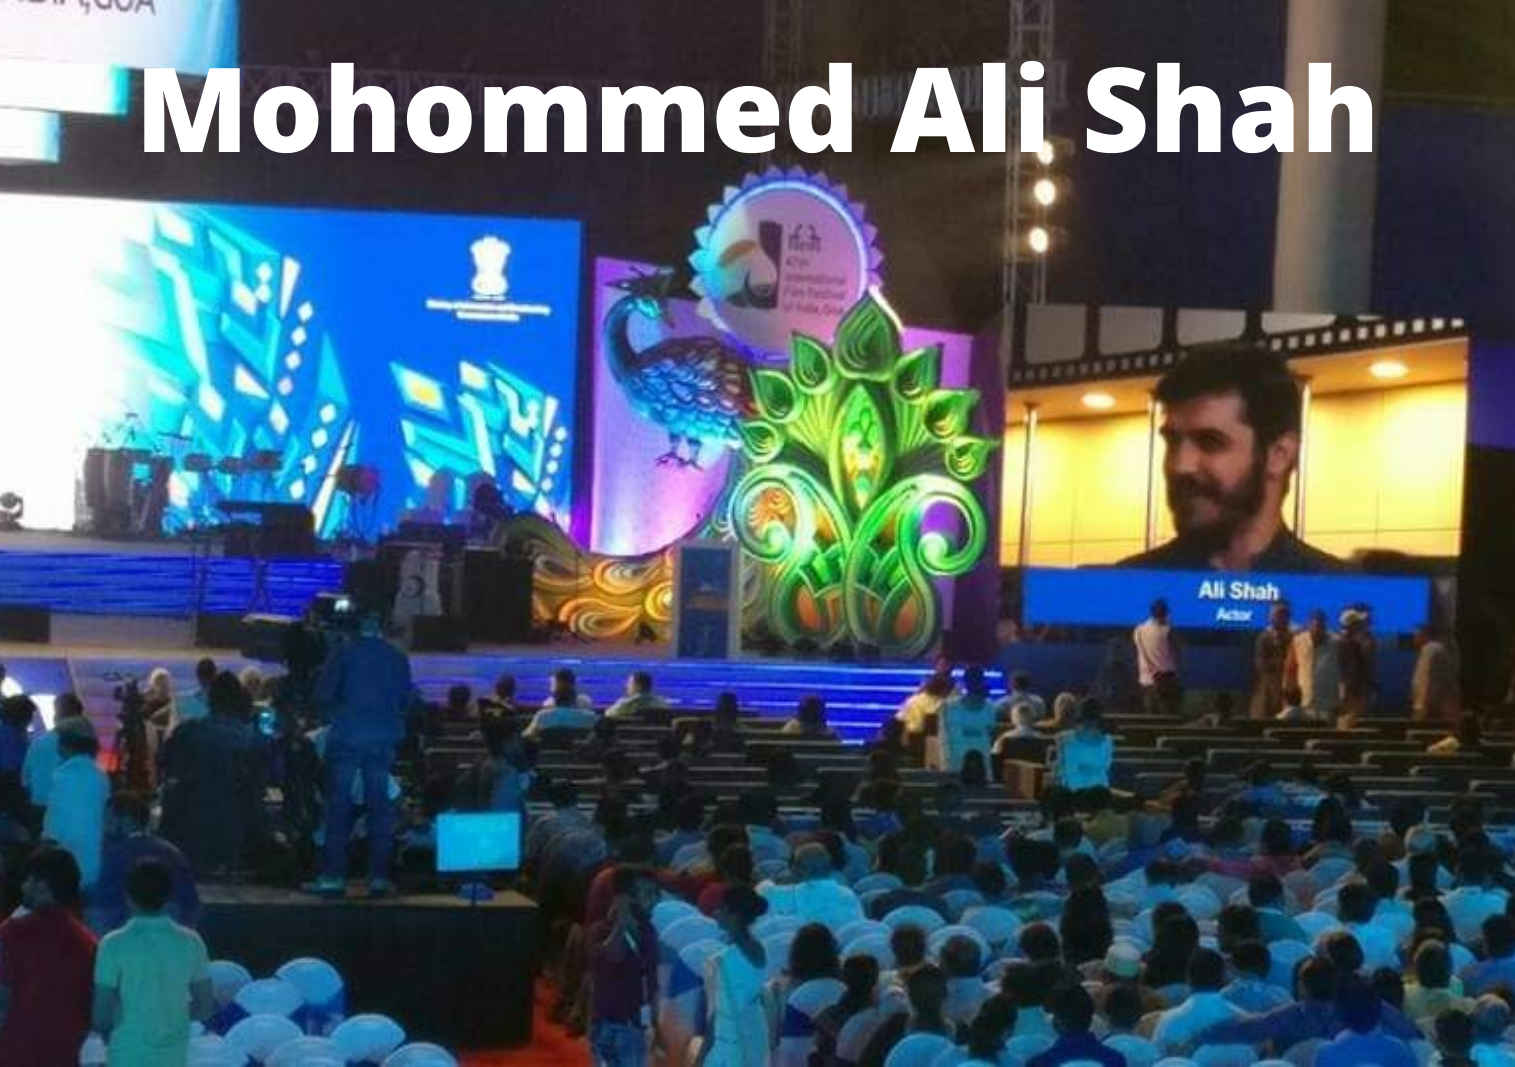
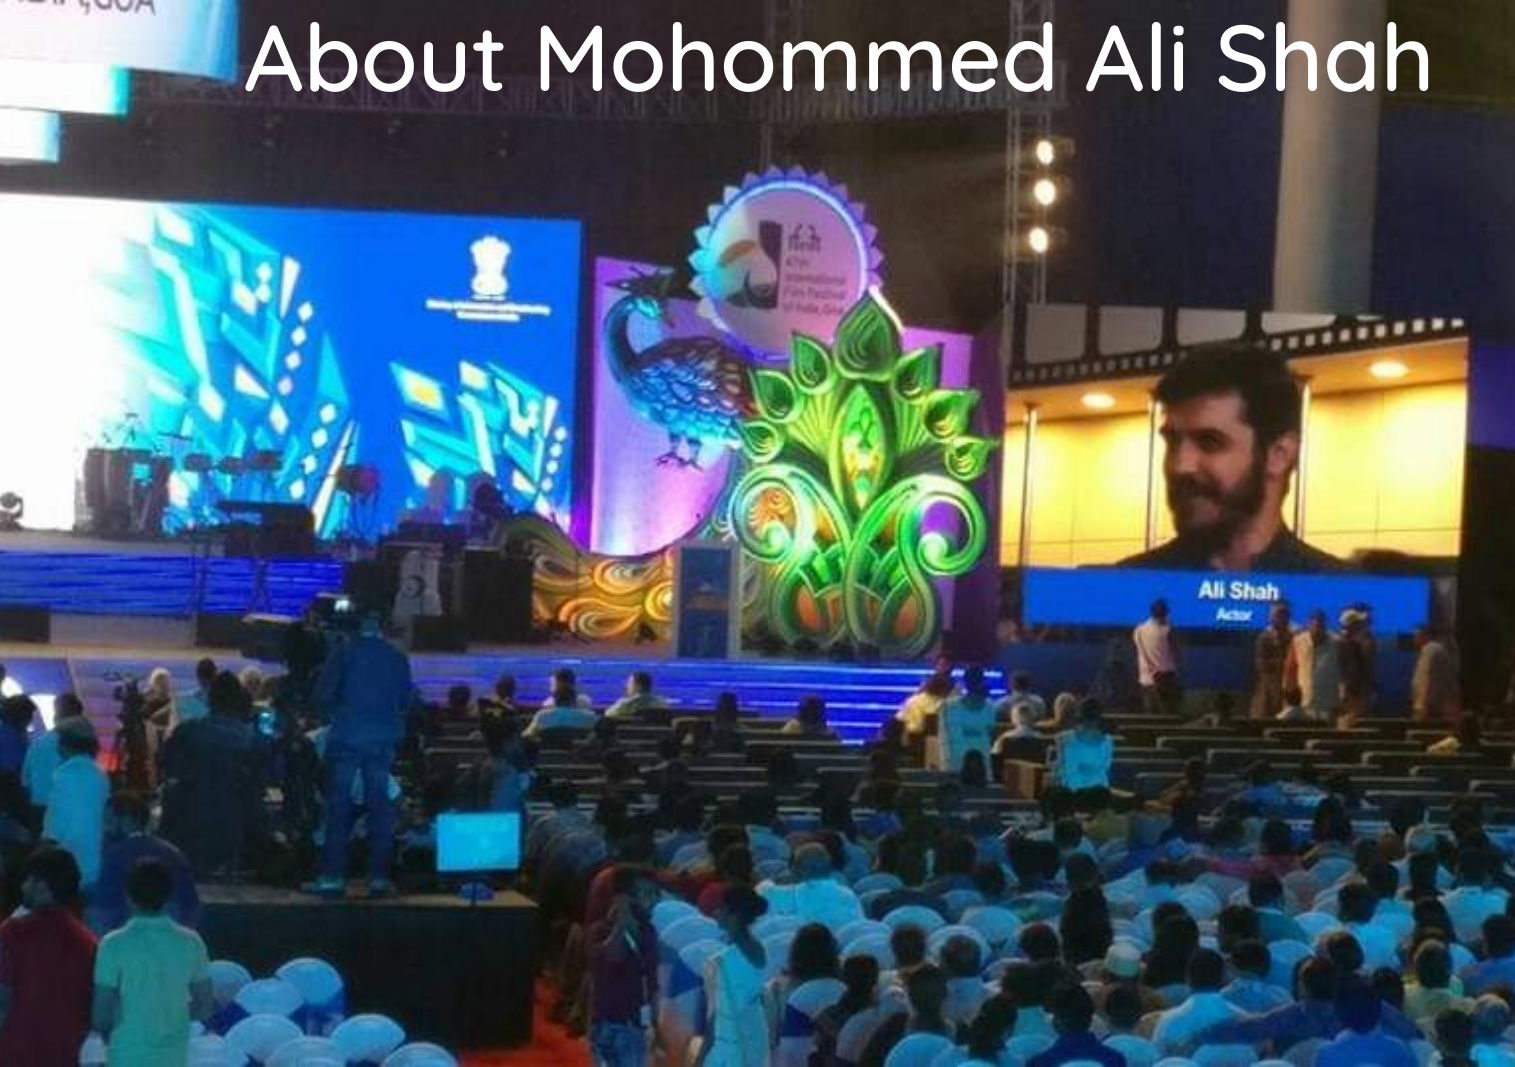
Update

Changed region(s): [[0.0931, 0.0, 0.9617, 0.1546]]

diff --git a/index.html b/index.html
@@ -83,8 +83,6 @@
     </style>
     <div id="about" class="container-fluid " style="background-color: #000; color: #FFF;">
 
-                <h1>About Major Mohommed Ali Shah</h1>
-        <hr style="height: 2px; width: 60px; background-color: white; margin-top: -5px; text-align: left;" >
         <br>
  <img src="About-Home.png" alt="" class="img-responsive img-thumbnail img"
         style="background-color: black; border: none;">
